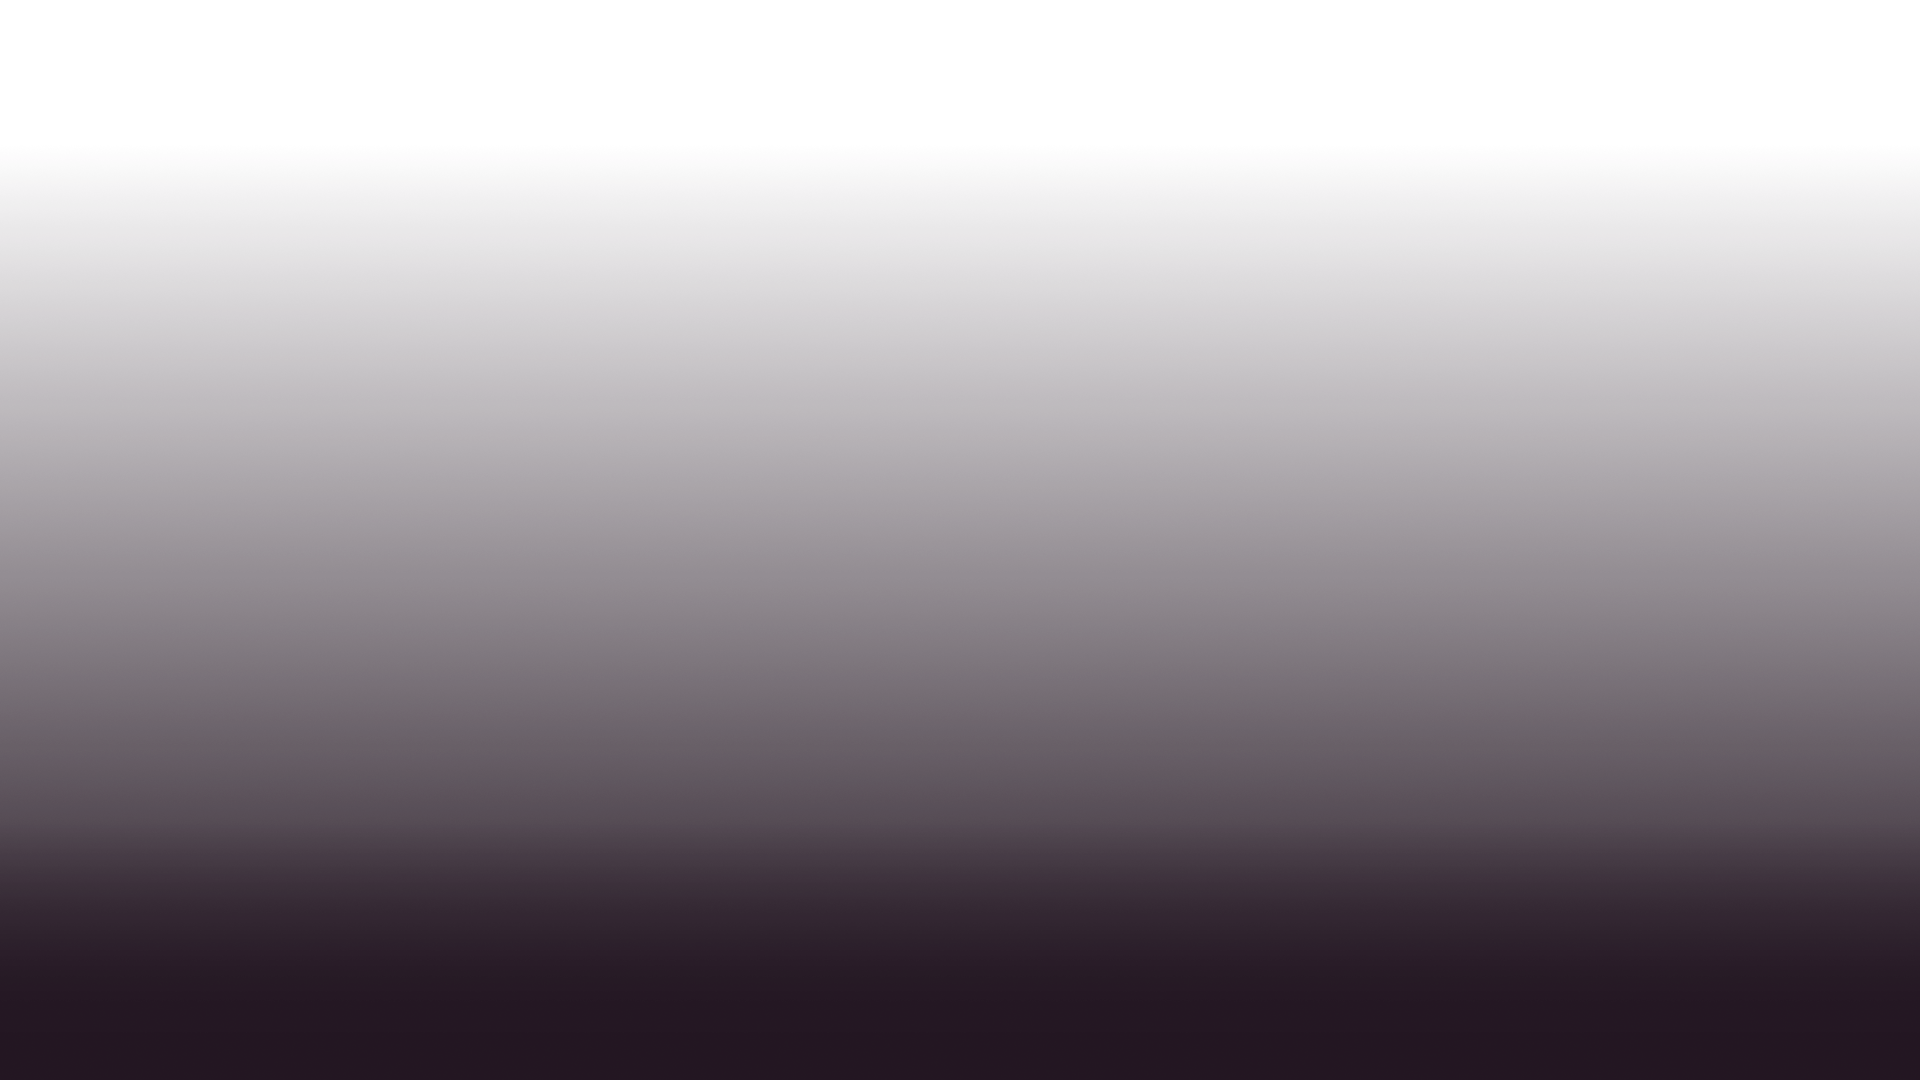
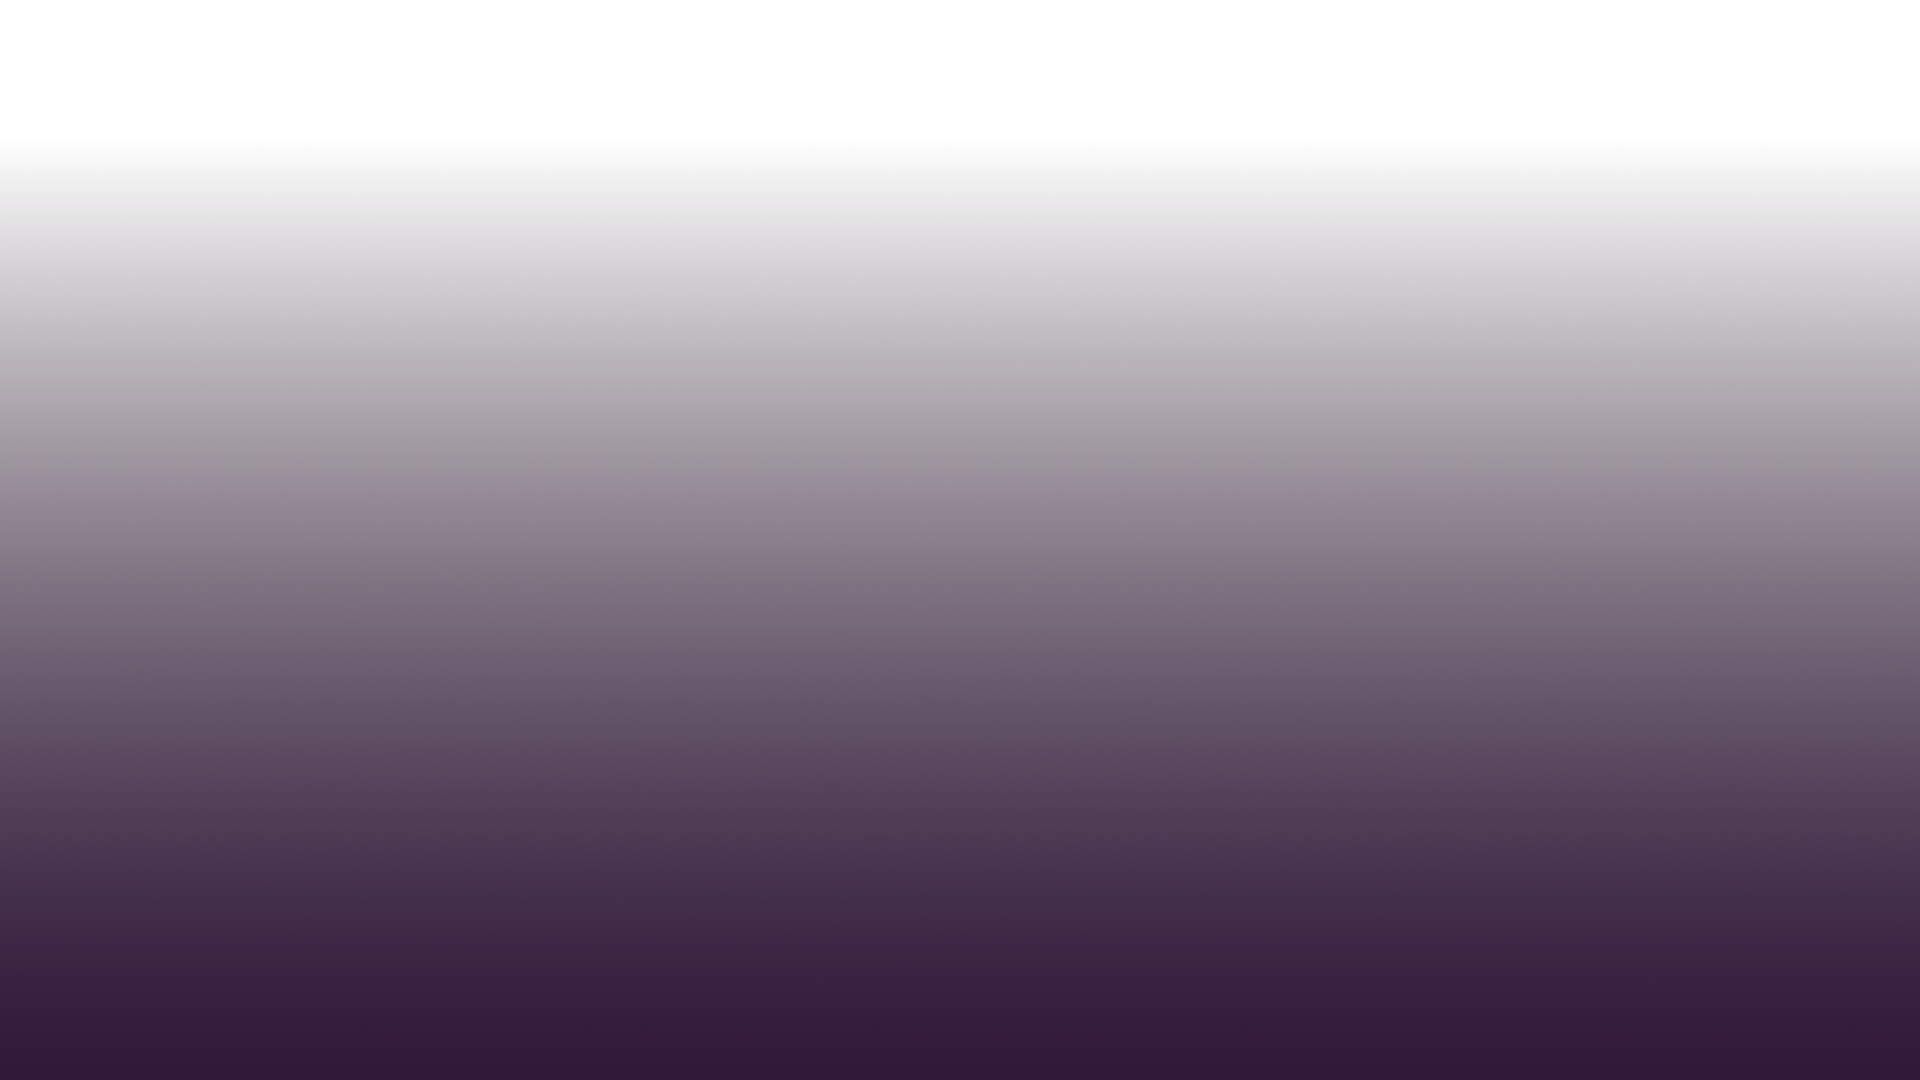
adding new features on events

Changed region(s): [[0.0, 0.8556, 1.0, 1.0], [0.0, 0.5194, 1.0, 0.5806]]

diff --git a/public/index.html b/public/index.html
@@ -15,20 +15,20 @@
 </head>
 
 <body>
-  <div class="header">
+  <header class="header">
     <img class="logo" alt='logo' src="http://diademastudio.com.br/wp-content/uploads/2018/02/logo.png" />
-    <ul class="menu">
+    <nav class="menu">
       <li>Página Inicial</li>
       <li>Sobre</li>
       <li>Videos</li>
       <li>Serviços</li>
-    </ul>
+    </nav>
     <div class="social">
       <i class="fab fa-instagram"></i>
       <i class="fab fa-facebook-f facebook"></i>
       <i class="fab fa-youtube-square"></i>
     </div>
-  </div>
+  </header>
   <div class="highlight">
     <div class="highlight__filter"></div>
     <image class="highlight__image" src="http://diademastudio.com.br/wp-content/uploads/2017/11/DSC_0164.jpg" />
@@ -53,7 +53,7 @@
     </div>
     <div class="player__progress">
       <p class="player__title">Saiadin // D Studio Apresenta</p>
-      <progress> </progress>
+      <progress max="100" value="50"> </progress>
     </div>
     <div class="player__volume">
       <i class="fas fa-volume-up"></i>
@@ -62,32 +62,107 @@
       <i class="fas fa-list-ul"></i>
     </div>
   </div>
-  <div class="events">
-    <h2 class="events__title">D Studio Convida</h2>
-    <div class="events__container">
-      <div class="events__content">Convida 1</div>
-      <div class="events__content">Convida 2</div>
-      <div class="events__content">Convida 3</div>
-      <div class="events__content">Convida 4</div>
-      <div class="events__content">Convida 5</div>
-      <div class="events__content">Convida 6</div>
-      <div class="events__content">Convida 7</div>
-      <div class="events__content">Convida 8</div>
-    </div>
-  </div>
-  <div class="events">
-    <h2 class="events__title">Instagram</h2>
-    <div class="events__container">
-      <div class="events__content">Image 1</div>
-      <div class="events__content">Image 2</div>
-      <div class="events__content">Image 3</div>
-      <div class="events__content">Image 4</div>
-      <div class="events__content">Image 5</div>
-      <div class="events__content">Image 6</div>
-      <div class="events__content">Image 7</div>
-      <div class="events__content">Image 8</div>
-    </div>
-  </div>
+  <main>
+    <section class="events">
+      <h2 class="events__title">D Studio Convida</h2>
+      <div class="events__filter"></div>
+      <div class="events__container">
+        <article class="events__content">
+          <image class="events__content-image" src="/css/backgrounds/Convida1.png" />
+          <span class="events__content-overlay"></span>
+          <h4 class="events__content-title">Marcos Pagu</h4>
+          <p class="events__content-info">Marcos Pagu marca presença no bate papo do D Studio, um figura rara de um
+            talento
+            incrível, é praticamente
+            impossível não se apaixonar por sua pessoa e por sua arte. Obrigado Pagu, você já é do mundo!</p>
+        </article>
+        <article class="events__content">
+          <image class="events__content-image" src="/css/backgrounds/Convida2.png" />
+          <span class="events__content-overlay"></span>
+          <h4 class="events__content-title">Marcos Pagu</h4>
+          <p class="events__content-info">Marcos Pagu marca presença no bate papo do D Studio, um figura rara de um
+            talento
+            incrível, é praticamente
+            impossível não se apaixonar por sua pessoa e por sua arte. Obrigado Pagu, você já é do mundo!</p>
+        </article>
+        <article class="events__content">
+          <image class="events__content-image" src="/css/backgrounds/Convida3.png" />
+          <span class="events__content-overlay"></span>
+          <h4 class="events__content-title">Marcos Pagu</h4>
+          <p class="events__content-info">Marcos Pagu marca presença no bate papo do D Studio, um figura rara de um
+            talento
+            incrível, é praticamente
+            impossível não se apaixonar por sua pessoa e por sua arte. Obrigado Pagu, você já é do mundo!</p>
+        </article>
+        <article class="events__content">
+          <image class="events__content-image" src="/css/backgrounds/Convida4.png" />
+          <span class="events__content-overlay"></span>
+          <h4 class="events__content-title">Marcos Pagu</h4>
+          <p class="events__content-info">Marcos Pagu marca presença no bate papo do D Studio, um figura rara de um
+            talento
+            incrível, é praticamente
+            impossível não se apaixonar por sua pessoa e por sua arte. Obrigado Pagu, você já é do mundo!</p>
+        </article>
+        <article class="events__content">
+          <image class="events__content-image" src="/css/backgrounds/Convida1.png" />
+          <span class="events__content-overlay"></span>
+          <h4 class="events__content-title">Marcos Pagu</h4>
+          <p class="events__content-info">Marcos Pagu marca presença no bate papo do D Studio, um figura rara de um
+            talento
+            incrível, é praticamente
+            impossível não se apaixonar por sua pessoa e por sua arte. Obrigado Pagu, você já é do mundo!</p>
+        </article>
+        <article class="events__content">
+          <image class="events__content-image" src="/css/backgrounds/Convida2.png" />
+          <span class="events__content-overlay"></span>
+          <h4 class="events__content-title">Marcos Pagu</h4>
+          <p class="events__content-info">Marcos Pagu marca presença no bate papo do D Studio, um figura rara de um
+            talento
+            incrível, é praticamente
+            impossível não se apaixonar por sua pessoa e por sua arte. Obrigado Pagu, você já é do mundo!</p>
+        </article>
+        <article class="events__content">
+          <image class="events__content-image" src="/css/backgrounds/Convida3.png" />
+          <span class="events__content-overlay"></span>
+          <h4 class="events__content-title">Marcos Pagu</h4>
+          <p class="events__content-info">Marcos Pagu marca presença no bate papo do D Studio, um figura rara de um
+            talento
+            incrível, é praticamente
+            impossível não se apaixonar por sua pessoa e por sua arte. Obrigado Pagu, você já é do mundo!</p>
+        </article>
+        <article class="events__content">
+          <image class="events__content-image" src="/css/backgrounds/Convida4.png" />
+          <span class="events__content-overlay"></span>
+          <h4 class="events__content-title">Marcos Pagu</h4>
+          <p class="events__content-info">Marcos Pagu marca presença no bate papo do D Studio, um figura rara de um
+            talento
+            incrível, é praticamente
+            impossível não se apaixonar por sua pessoa e por sua arte. Obrigado Pagu, você já é do mundo!</p>
+        </article>
+    </section>
+    <section class="events">
+      <h2 class="events__title">Instagram</h2>
+      <div class="events__filter"></div>
+      <div class="events__container">
+        <article class="events__content">
+      </div>
+      <article class="events__content">
+      </article>
+      <article class="events__content">
+      </article>
+      <article class="events__content">
+      </article>
+      <article class="events__content">
+      </article>
+      <article class="events__content">
+      </article>
+      <article class="events__content">
+      </article>
+      <article class="events__content">
+      </article>
+      </div>
+    </section>
+  </main>
 </body>
 
 </html>

diff --git a/public/css/index.css b/public/css/index.css
@@ -1,7 +1,8 @@
 body {
   padding: 0;
   margin: 0;
-  background: #231622;
+  background: #2e1537;
+  font-family: 'PT Sans', sans-serif;
 }
 
 p {
@@ -202,6 +203,21 @@ p {
 
 progress {
   width: 100%;
+  height: 5px;
+}
+
+progress[value] {
+  -webkit-appearance: none;
+   appearance: none;
+}
+
+progress[value]::-webkit-progress-bar {
+  border-radius: 2px;
+  box-shadow: 0 2px 5px rgba(0, 0, 0, 0.25) inset;
+}
+
+progress[value]::-webkit-progress-value {
+  background-color: rgba(165, 64, 143, 0.5);
 }
 
 .player__volume {
@@ -225,12 +241,23 @@ progress {
 /*Features*/
 .events {
   margin: 150px auto;
-  width: 100%;
+  width: 85%;
   height: 500px;
   display: flex;
   flex-direction: column;
   align-items: center;
-  overflow: hidden;
+  position: relative;
+}
+
+.events__filter{
+  position: absolute;
+  left: 0;
+  top: 0;
+  background: url('backgrounds/events-shadow.png');
+  width: 100%;
+  height: 100%;
+  background-size: 100%; 
+  z-index: 2;
 }
 
 .events__title {
@@ -243,7 +270,10 @@ progress {
   width: 100%;
   height: 100%;
   display: flex;
-  justify-content: space-around; 
+  justify-content: space-between; 
+  overflow-x: hidden;
+  overflow-y: hidden; 
+  position: relative;
 }
 
 .events__content {
@@ -251,6 +281,56 @@ progress {
   min-width: 300px;
   width: 30%;
   align-items: center;
-  background:rgba(0,0,0,0.5);
   color: white;
+  height: 100%;
+  justify-content: center;
+  cursor: pointer;
+  position: relative;
+  overflow: hidden;
+}
+
+.events__content-overlay {
+  width: 100%;
+  height: 100%;
+  z-index: 2;
+  opacity: 0;
+  display: flex;
+  align-items: flex-end;
+  position: absolute;
+  width: 100%;
+}
+
+.events__content-image{
+  transition: all .5s linear;
+}
+
+.events__content:hover .events__content-image {
+  transform: scale(1.2);
+}
+
+.events__content:hover .events__content-info,
+.events__content:hover .events__content-title {
+  opacity: 1;
+}
+
+.events__content:hover .events__content-overlay {
+  -webkit-box-shadow: inset 0px -300px 200px -82px #3b1255;
+  -moz-box-shadow: inset 0px -300px 200px -82px #3b1255;
+  box-shadow: inset 0px -300px 200px -82px #3b1255;
+  opacity: 1;
+}
+
+.events__content-info {
+  margin: 20px;
+  font-size: 14px;
+  position: absolute;
+  z-index: 2;
+  bottom: 0;
+  opacity: 0;
+}
+
+.events__content-title {
+  opacity: 0;
+  z-index: 2;
+  position: absolute;
 }
